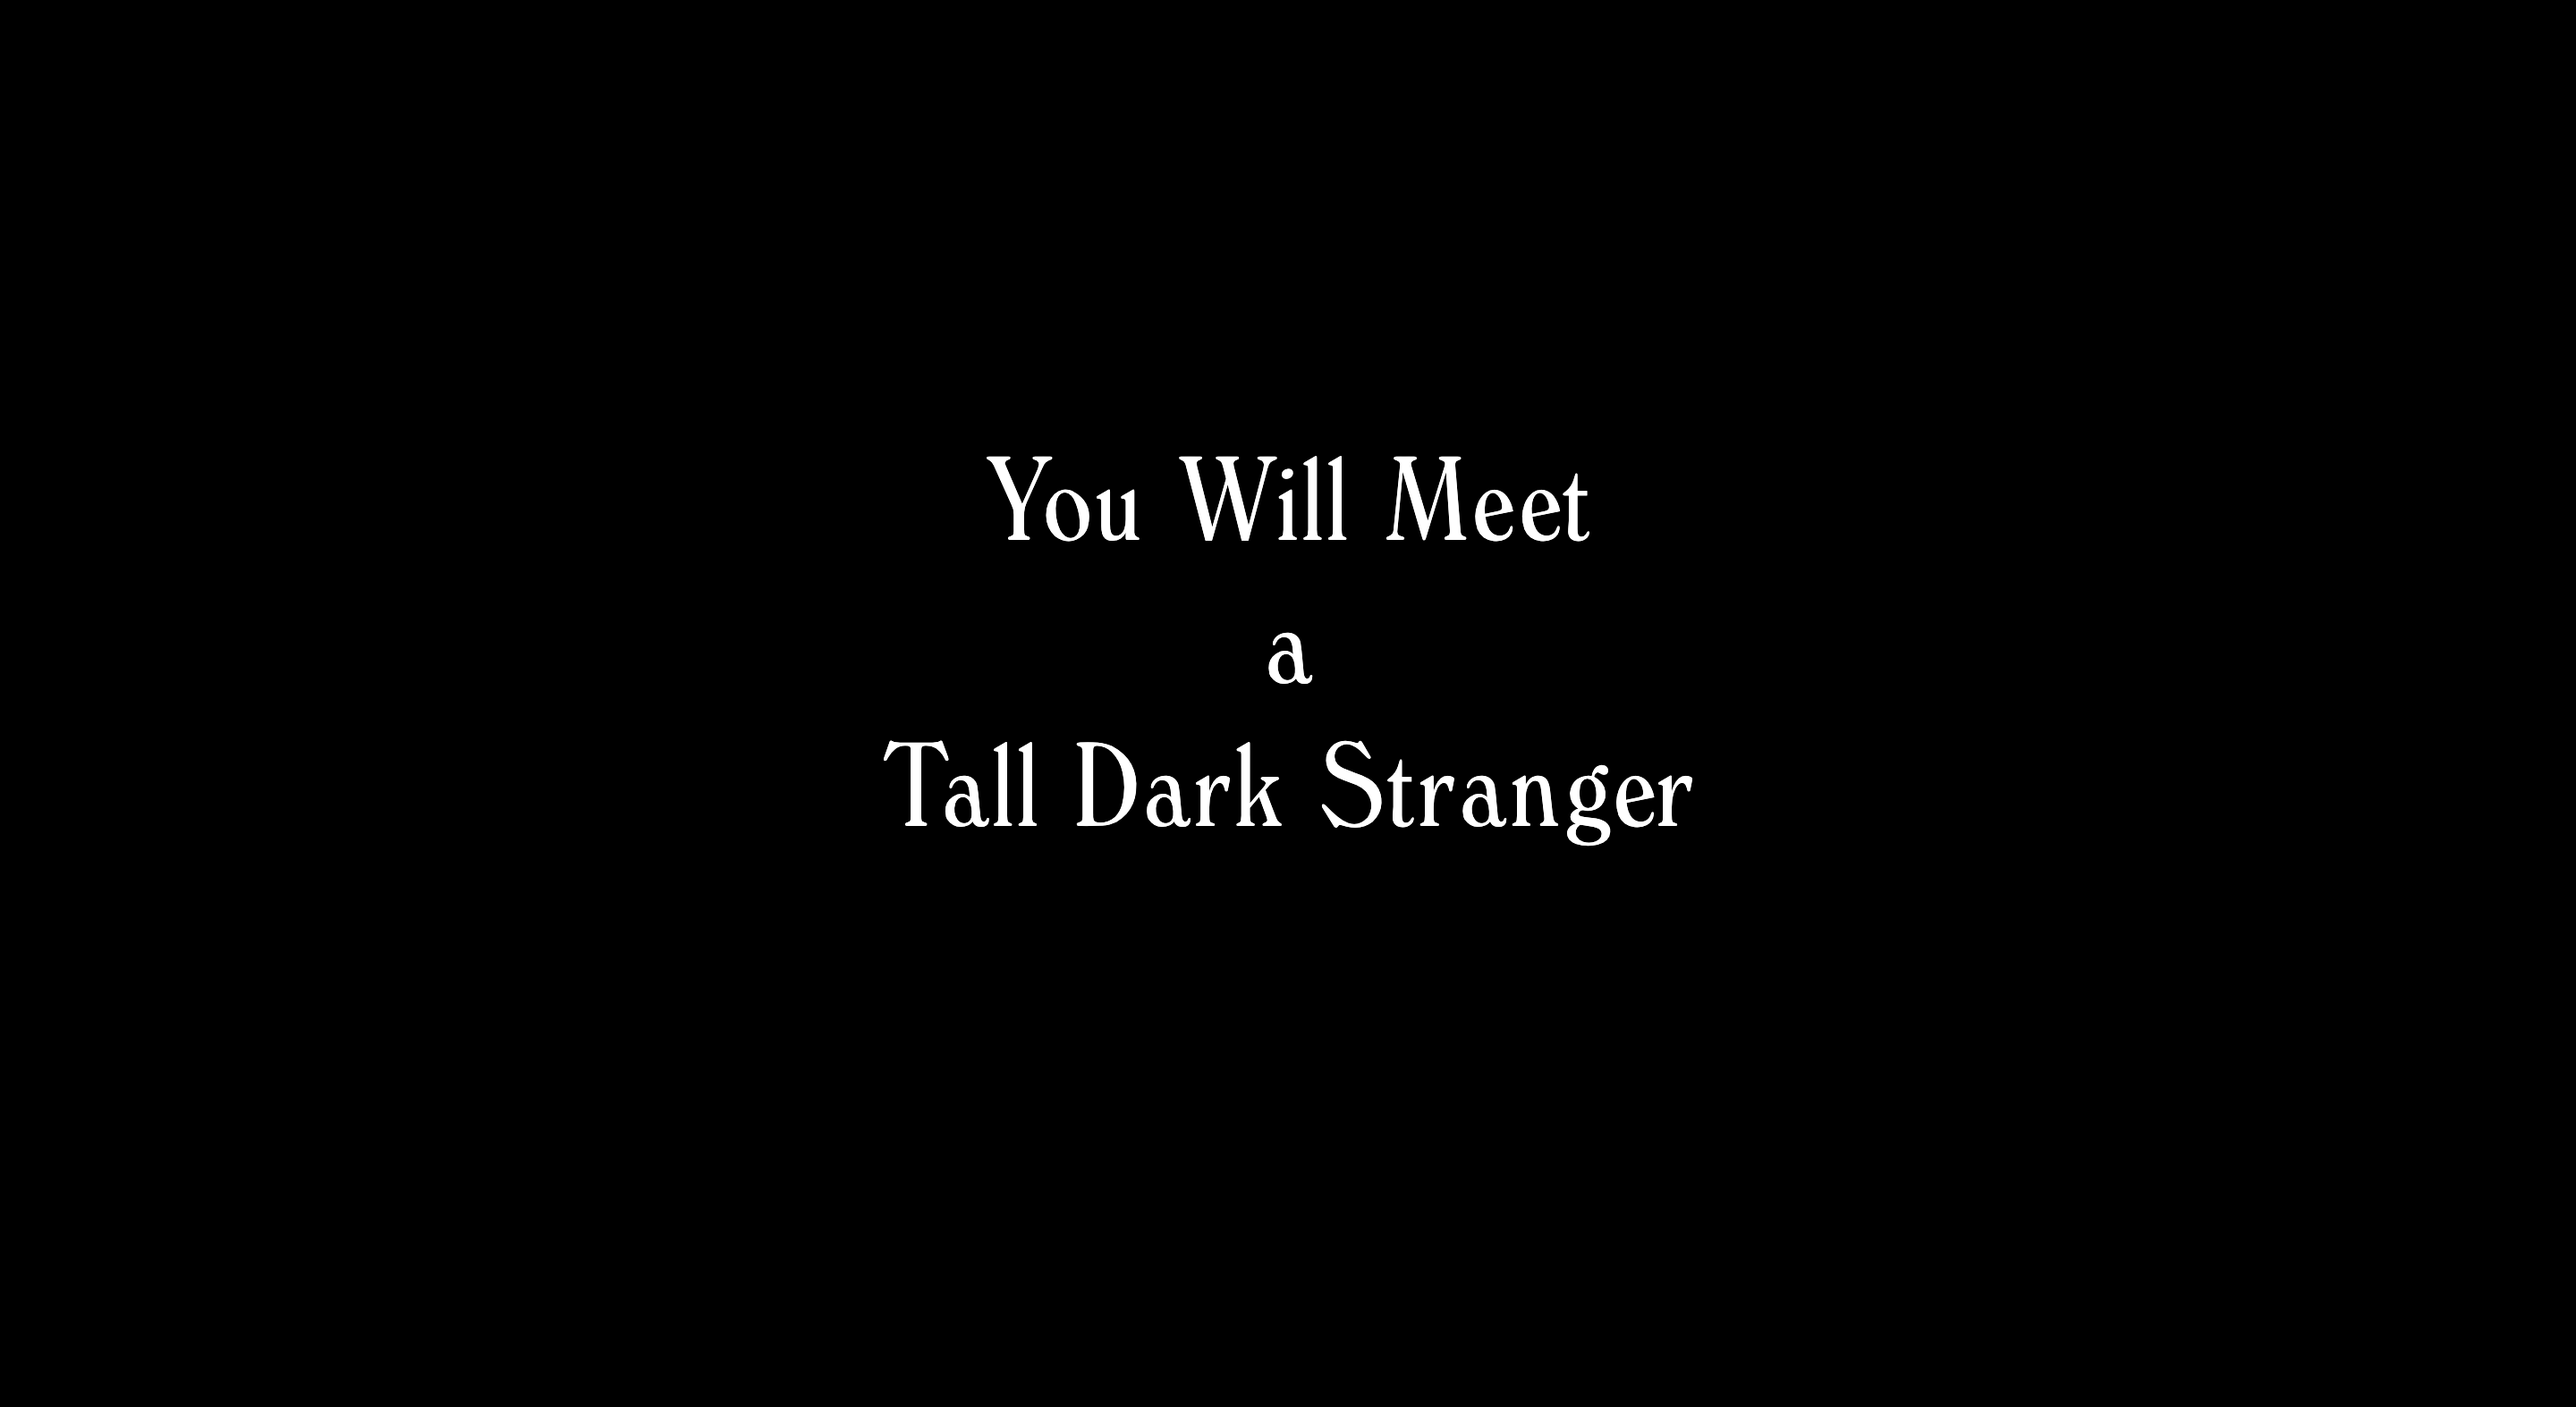
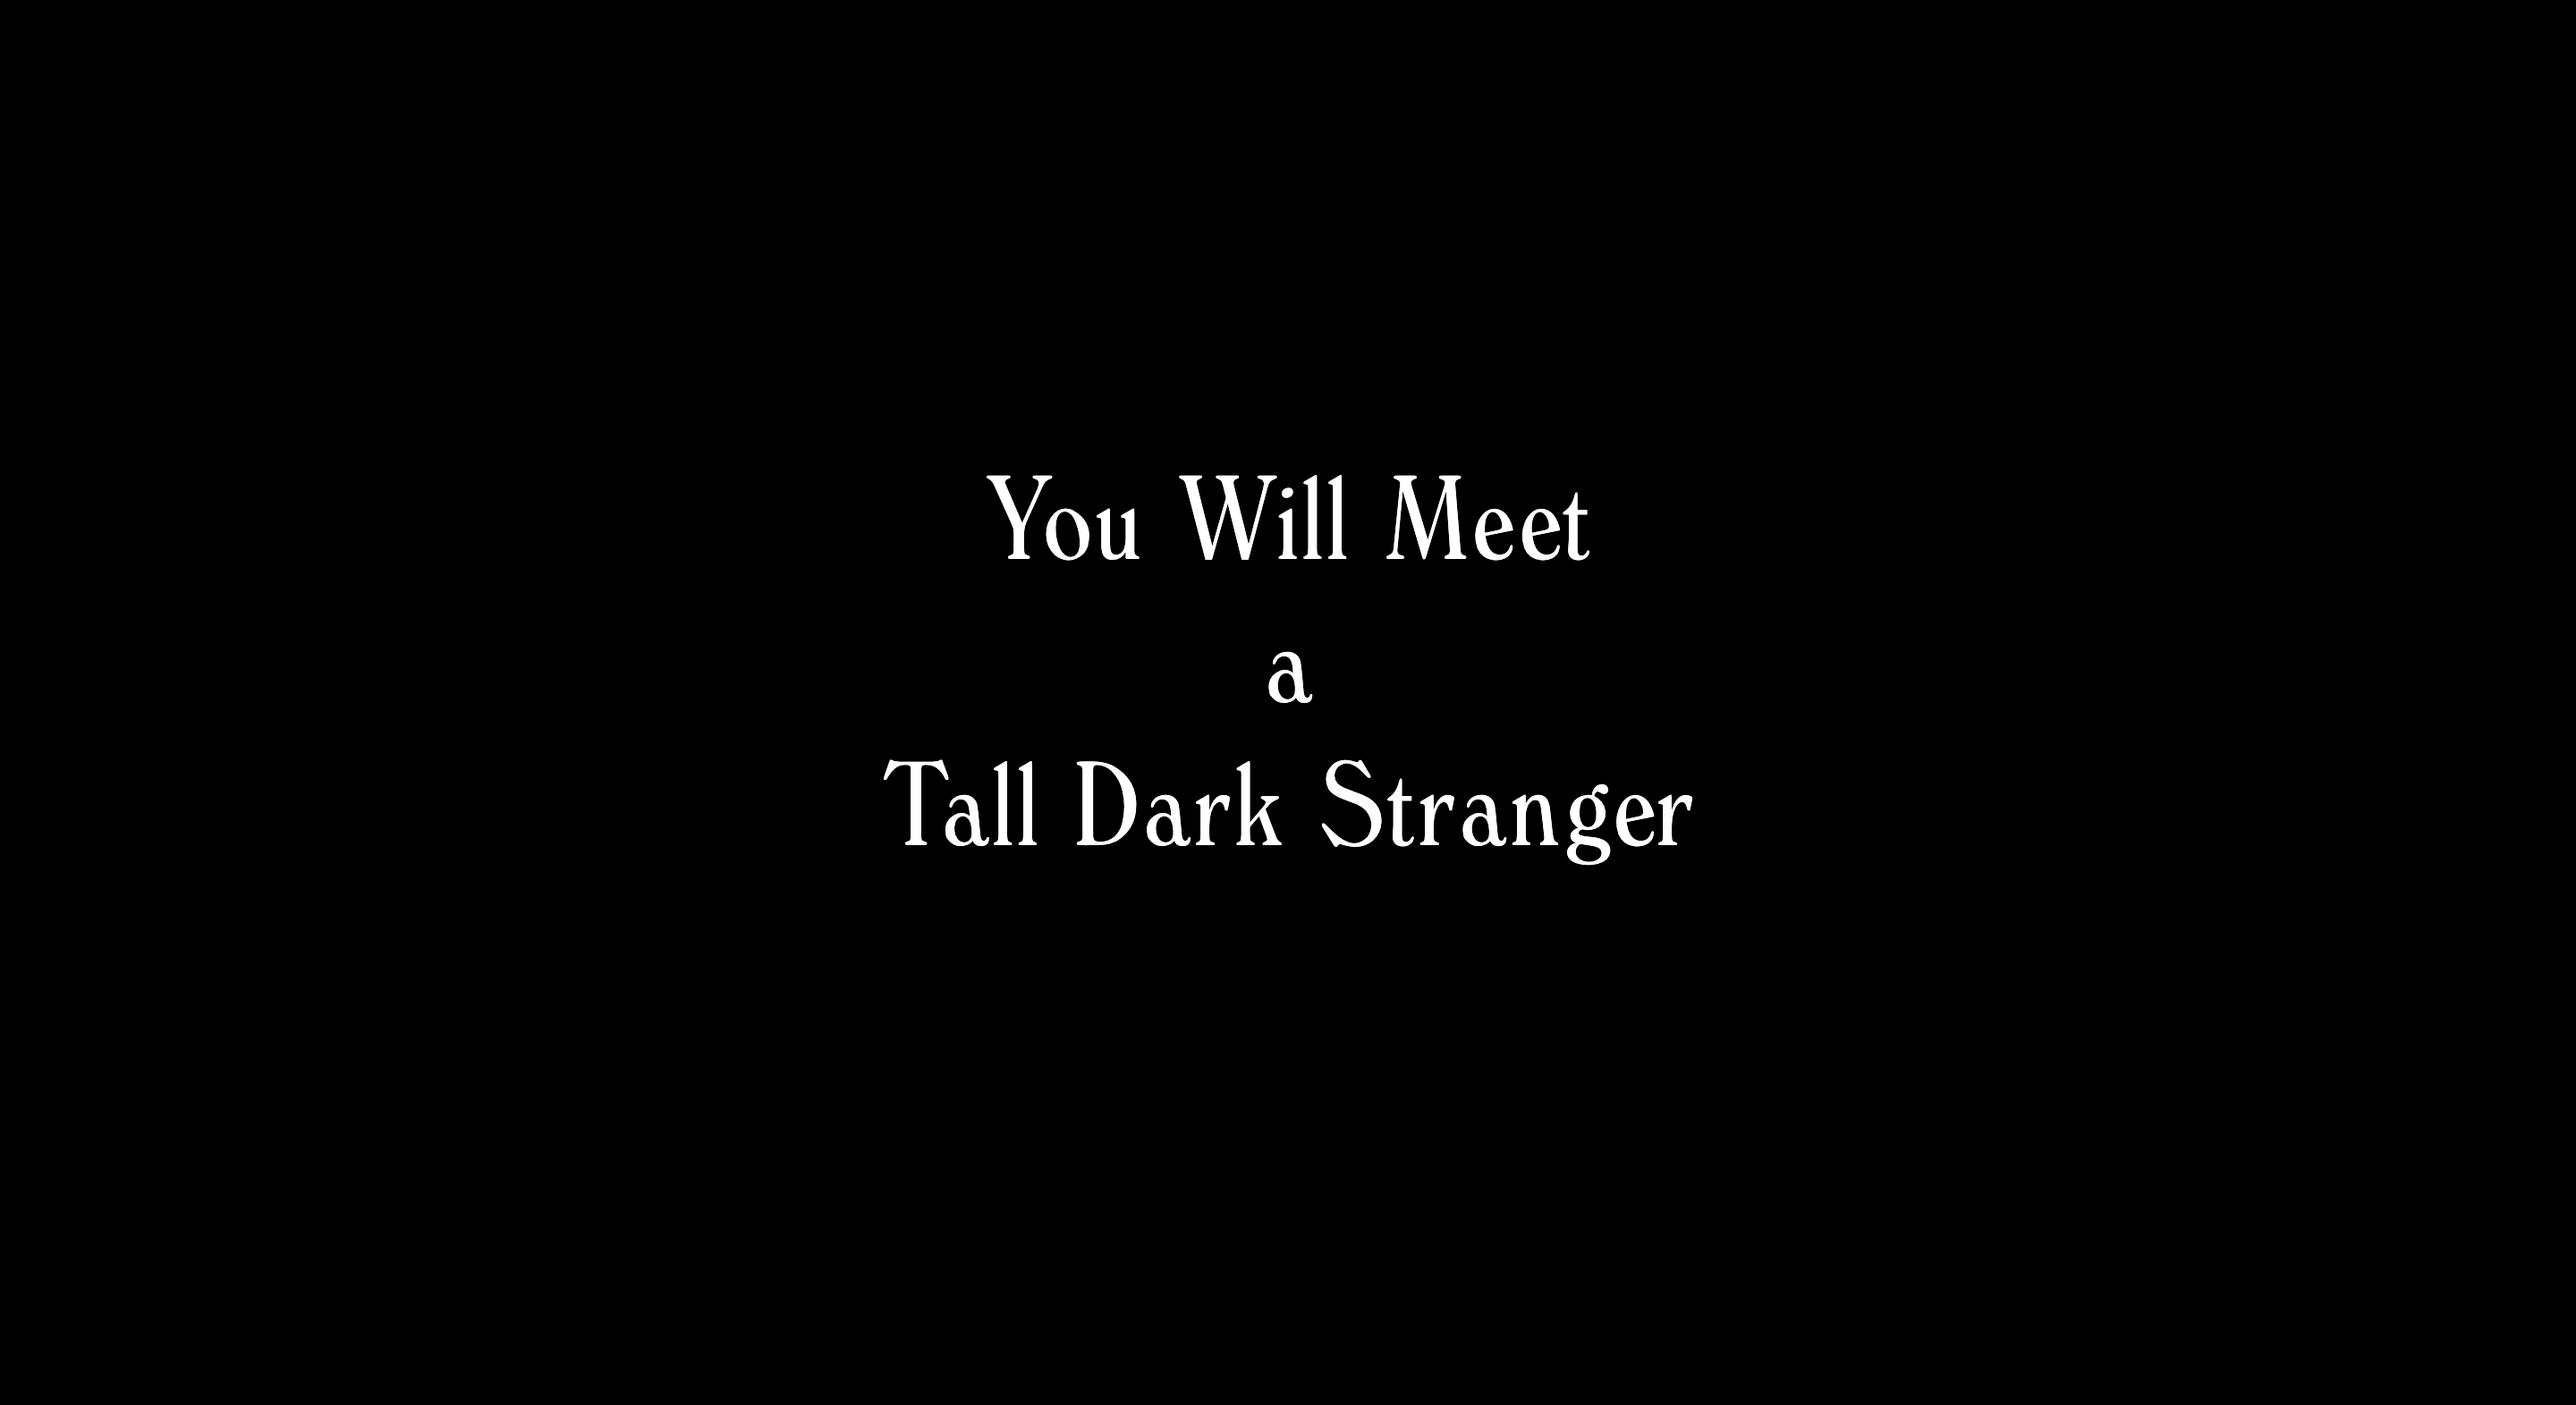
minor style change

Changed region(s): [[0.3438, 0.5302, 0.6562, 0.6238], [0.375, 0.3119, 0.625, 0.4055], [0.4688, 0.4679, 0.5312, 0.499]]

diff --git a/index.html b/index.html
@@ -25,7 +25,7 @@
         font-family: Windsor;
         text-align: center;
         font-size: 5em;
-        transform: translateY(-15%);
+        transform: translateY(-10%);
         white-space: pre-line;
         margin: 0;
       }
